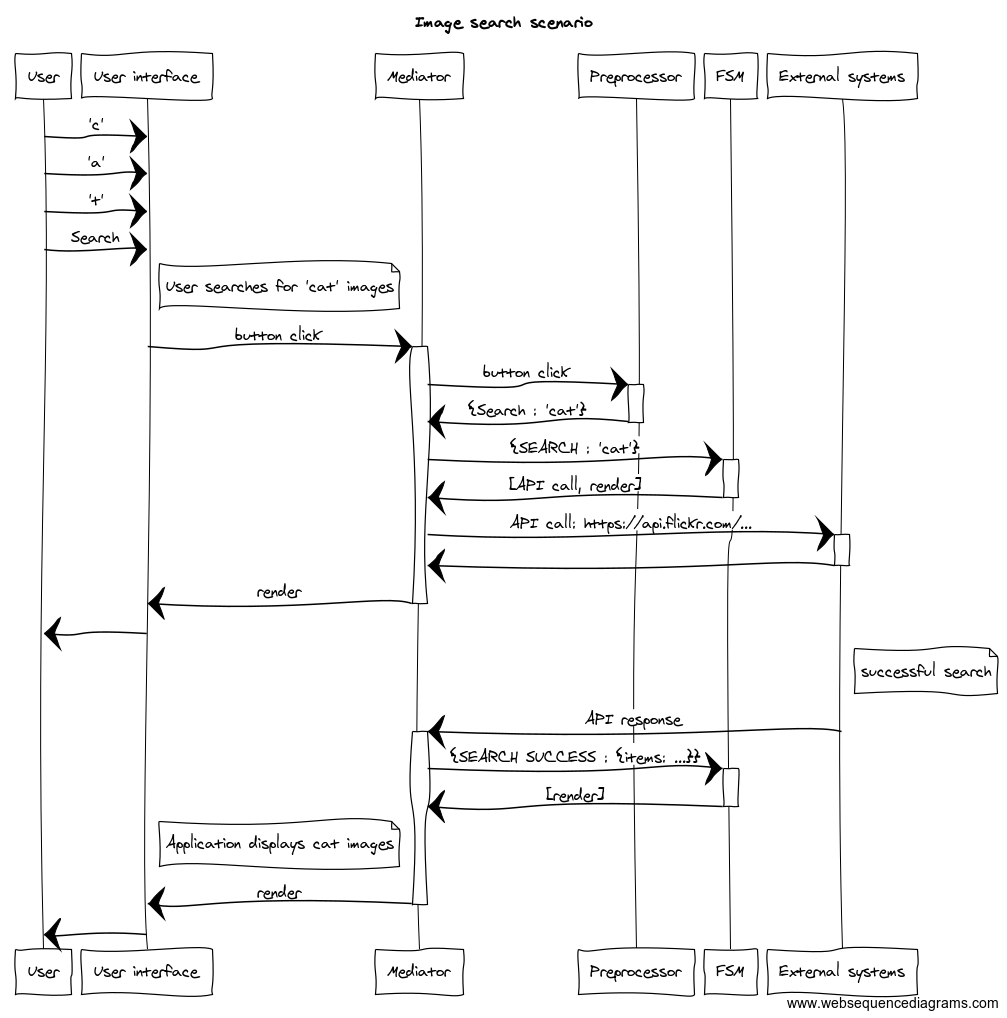
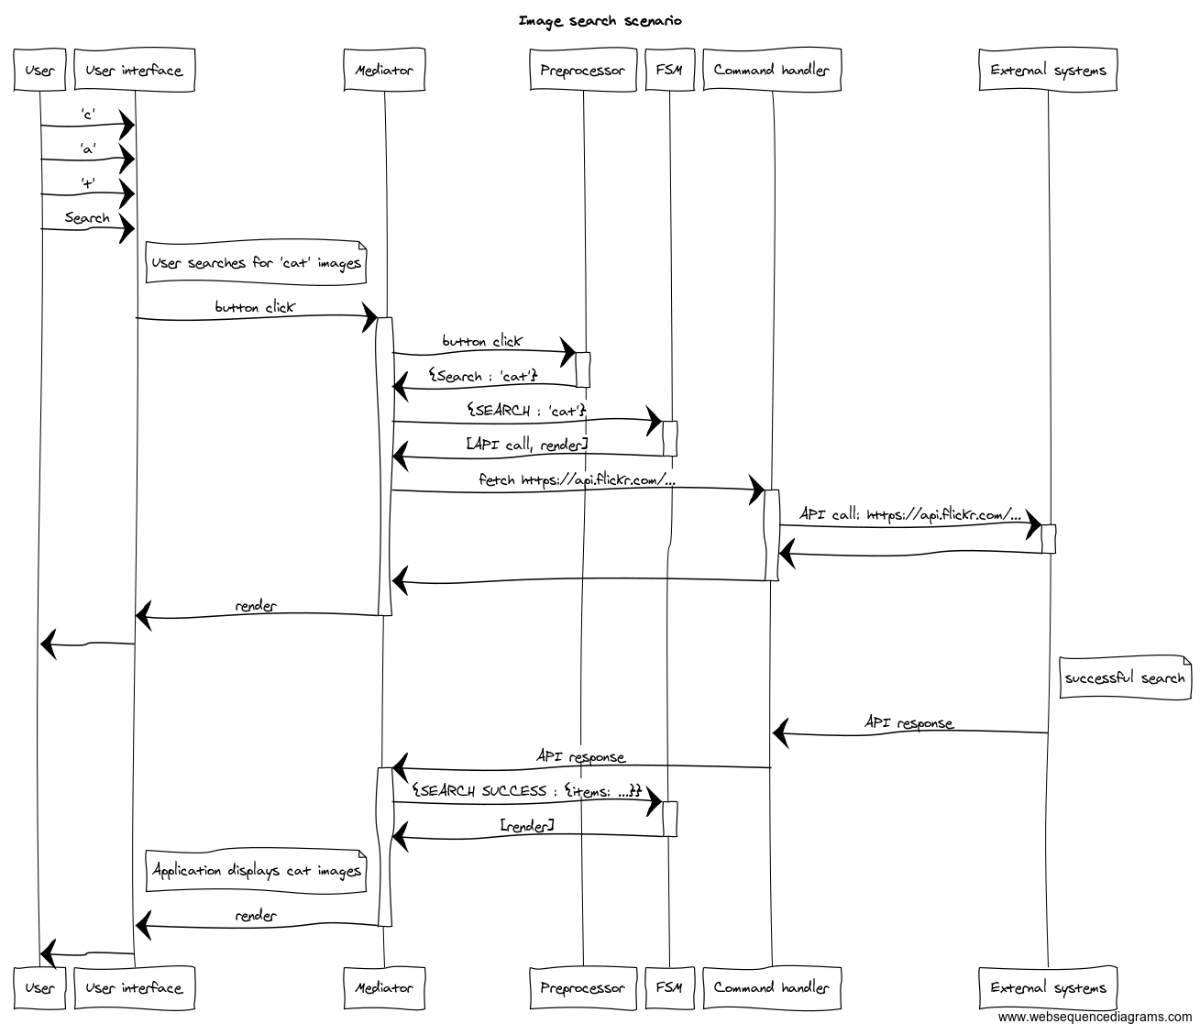
chore(README)

Changed region(s): [[0.0, 0.0, 1.0, 1.0], [0.1231, 0.3045, 0.1539, 0.335]]

diff --git a/README.md b/README.md
@@ -28,6 +28,9 @@ In our proposed architecture, the same scenario would become :
 
 ![image search basic scenario](assets/Image%20search%20scenario%20with%20fsm.png)
 
+In that architecture, the application is refactored into a mediator, a preprocessor and a state 
+machine.
+
 # API design goals
 We want to have an integration which is generic enough to accomodate a large set of use cases, 
 and specific enough to be able to take advantage as much as possible of the `React` ecosystem 
